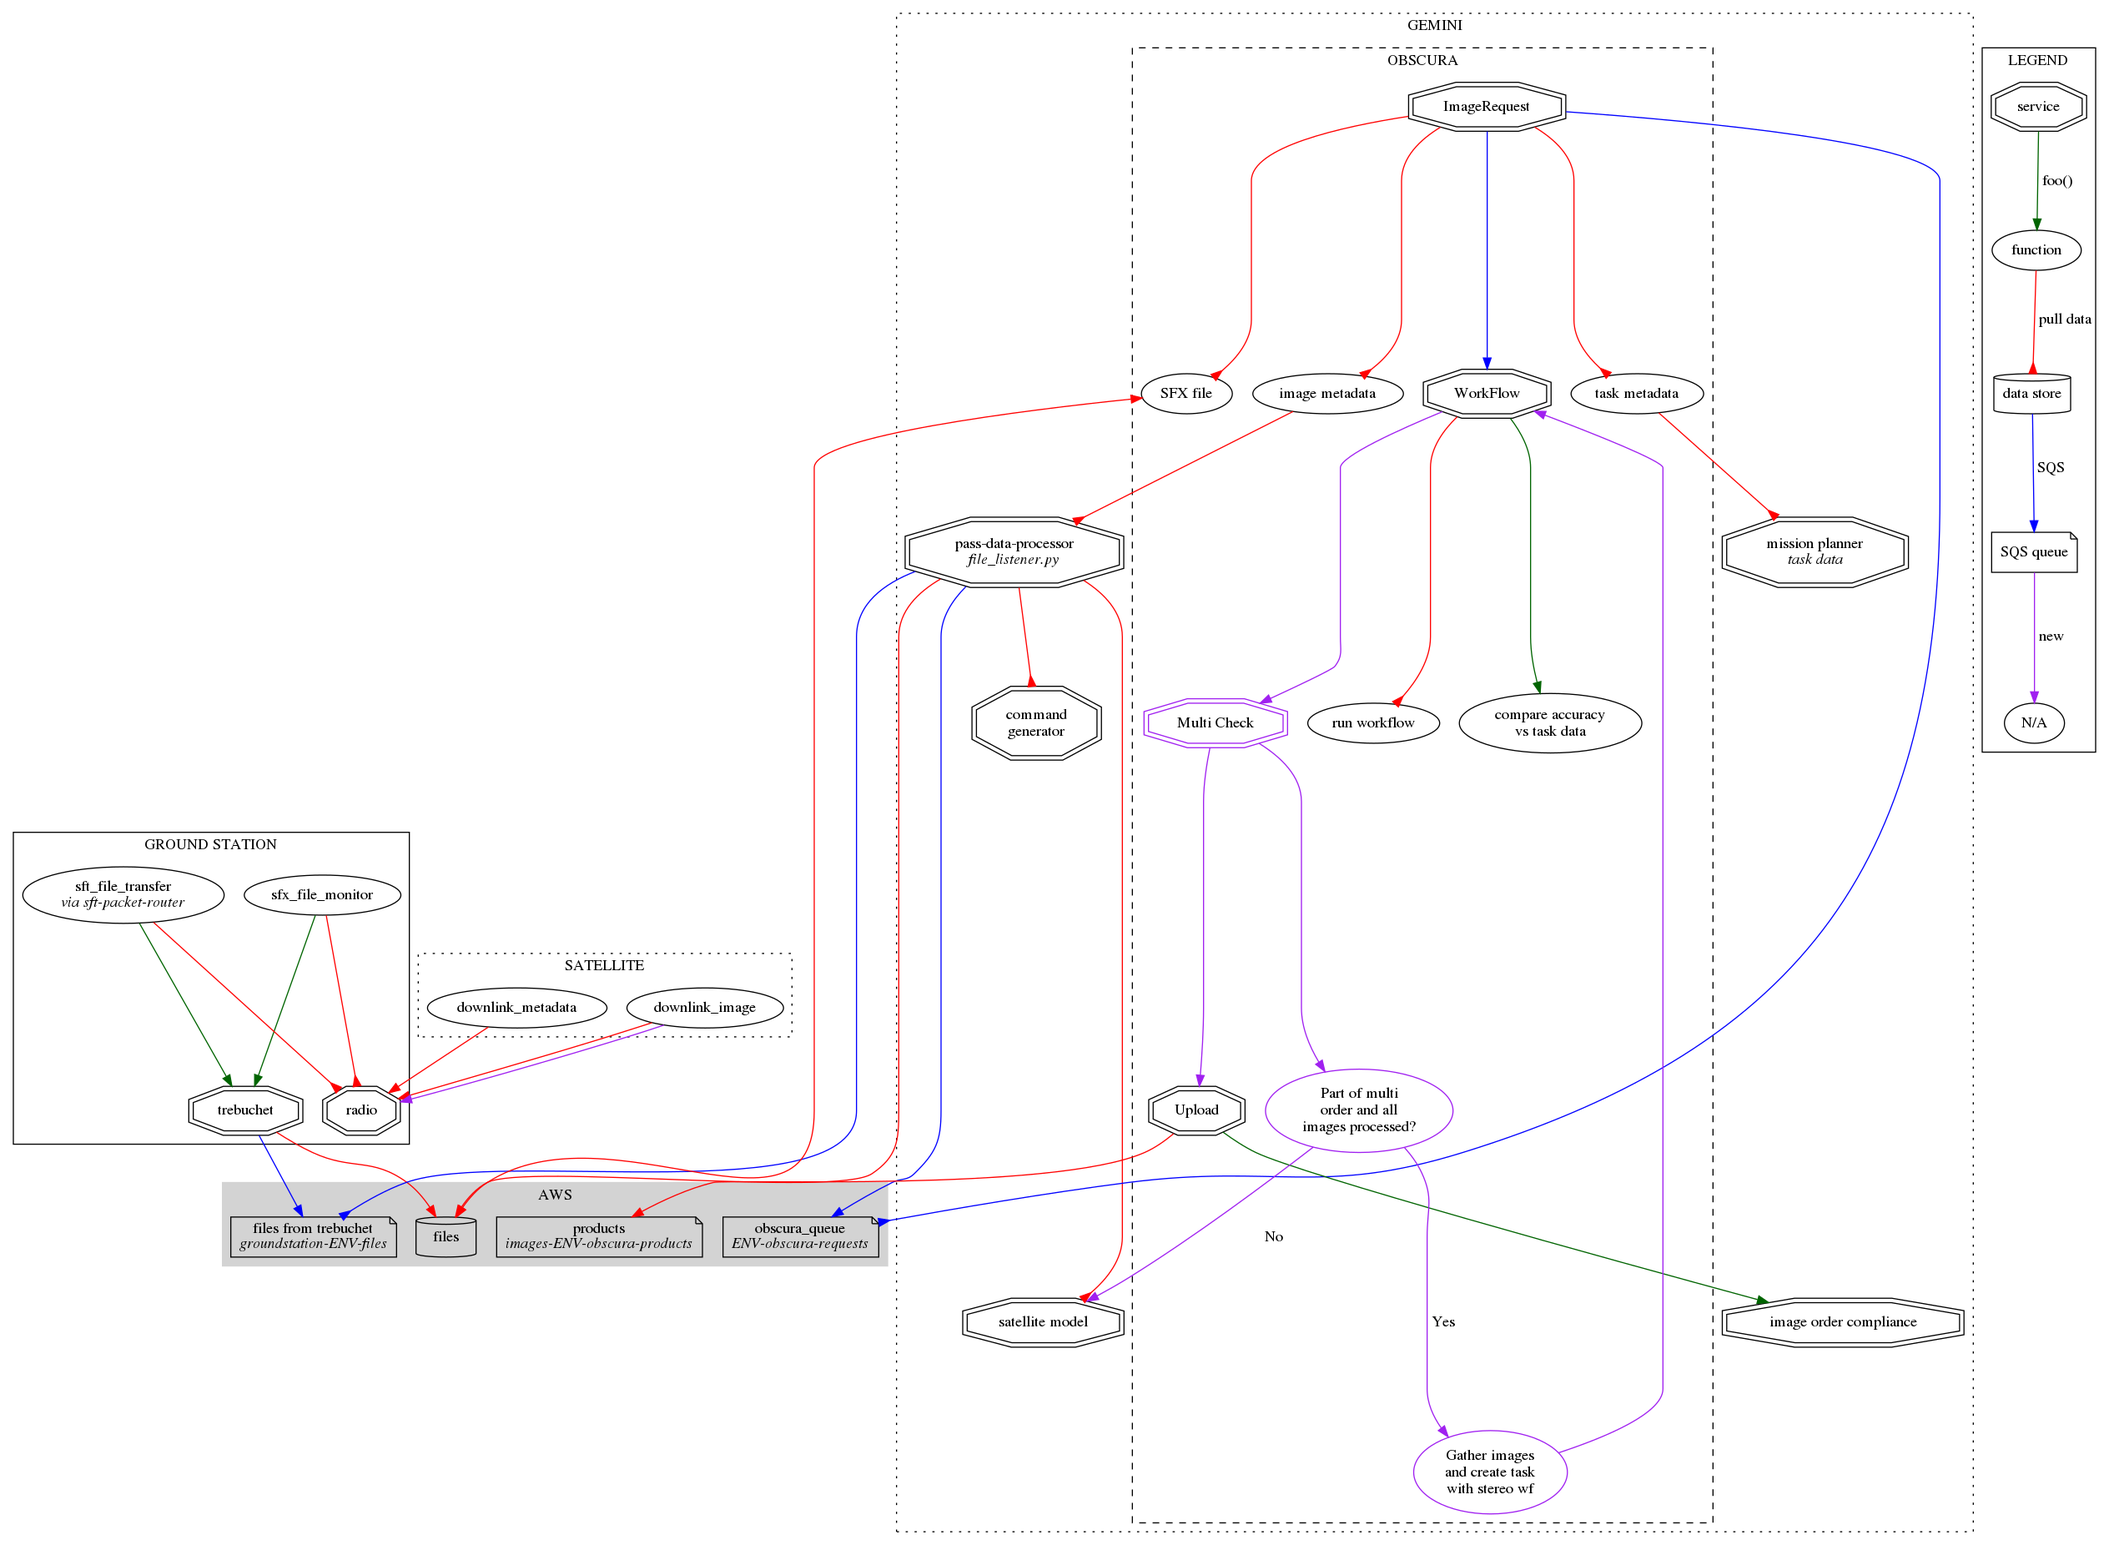
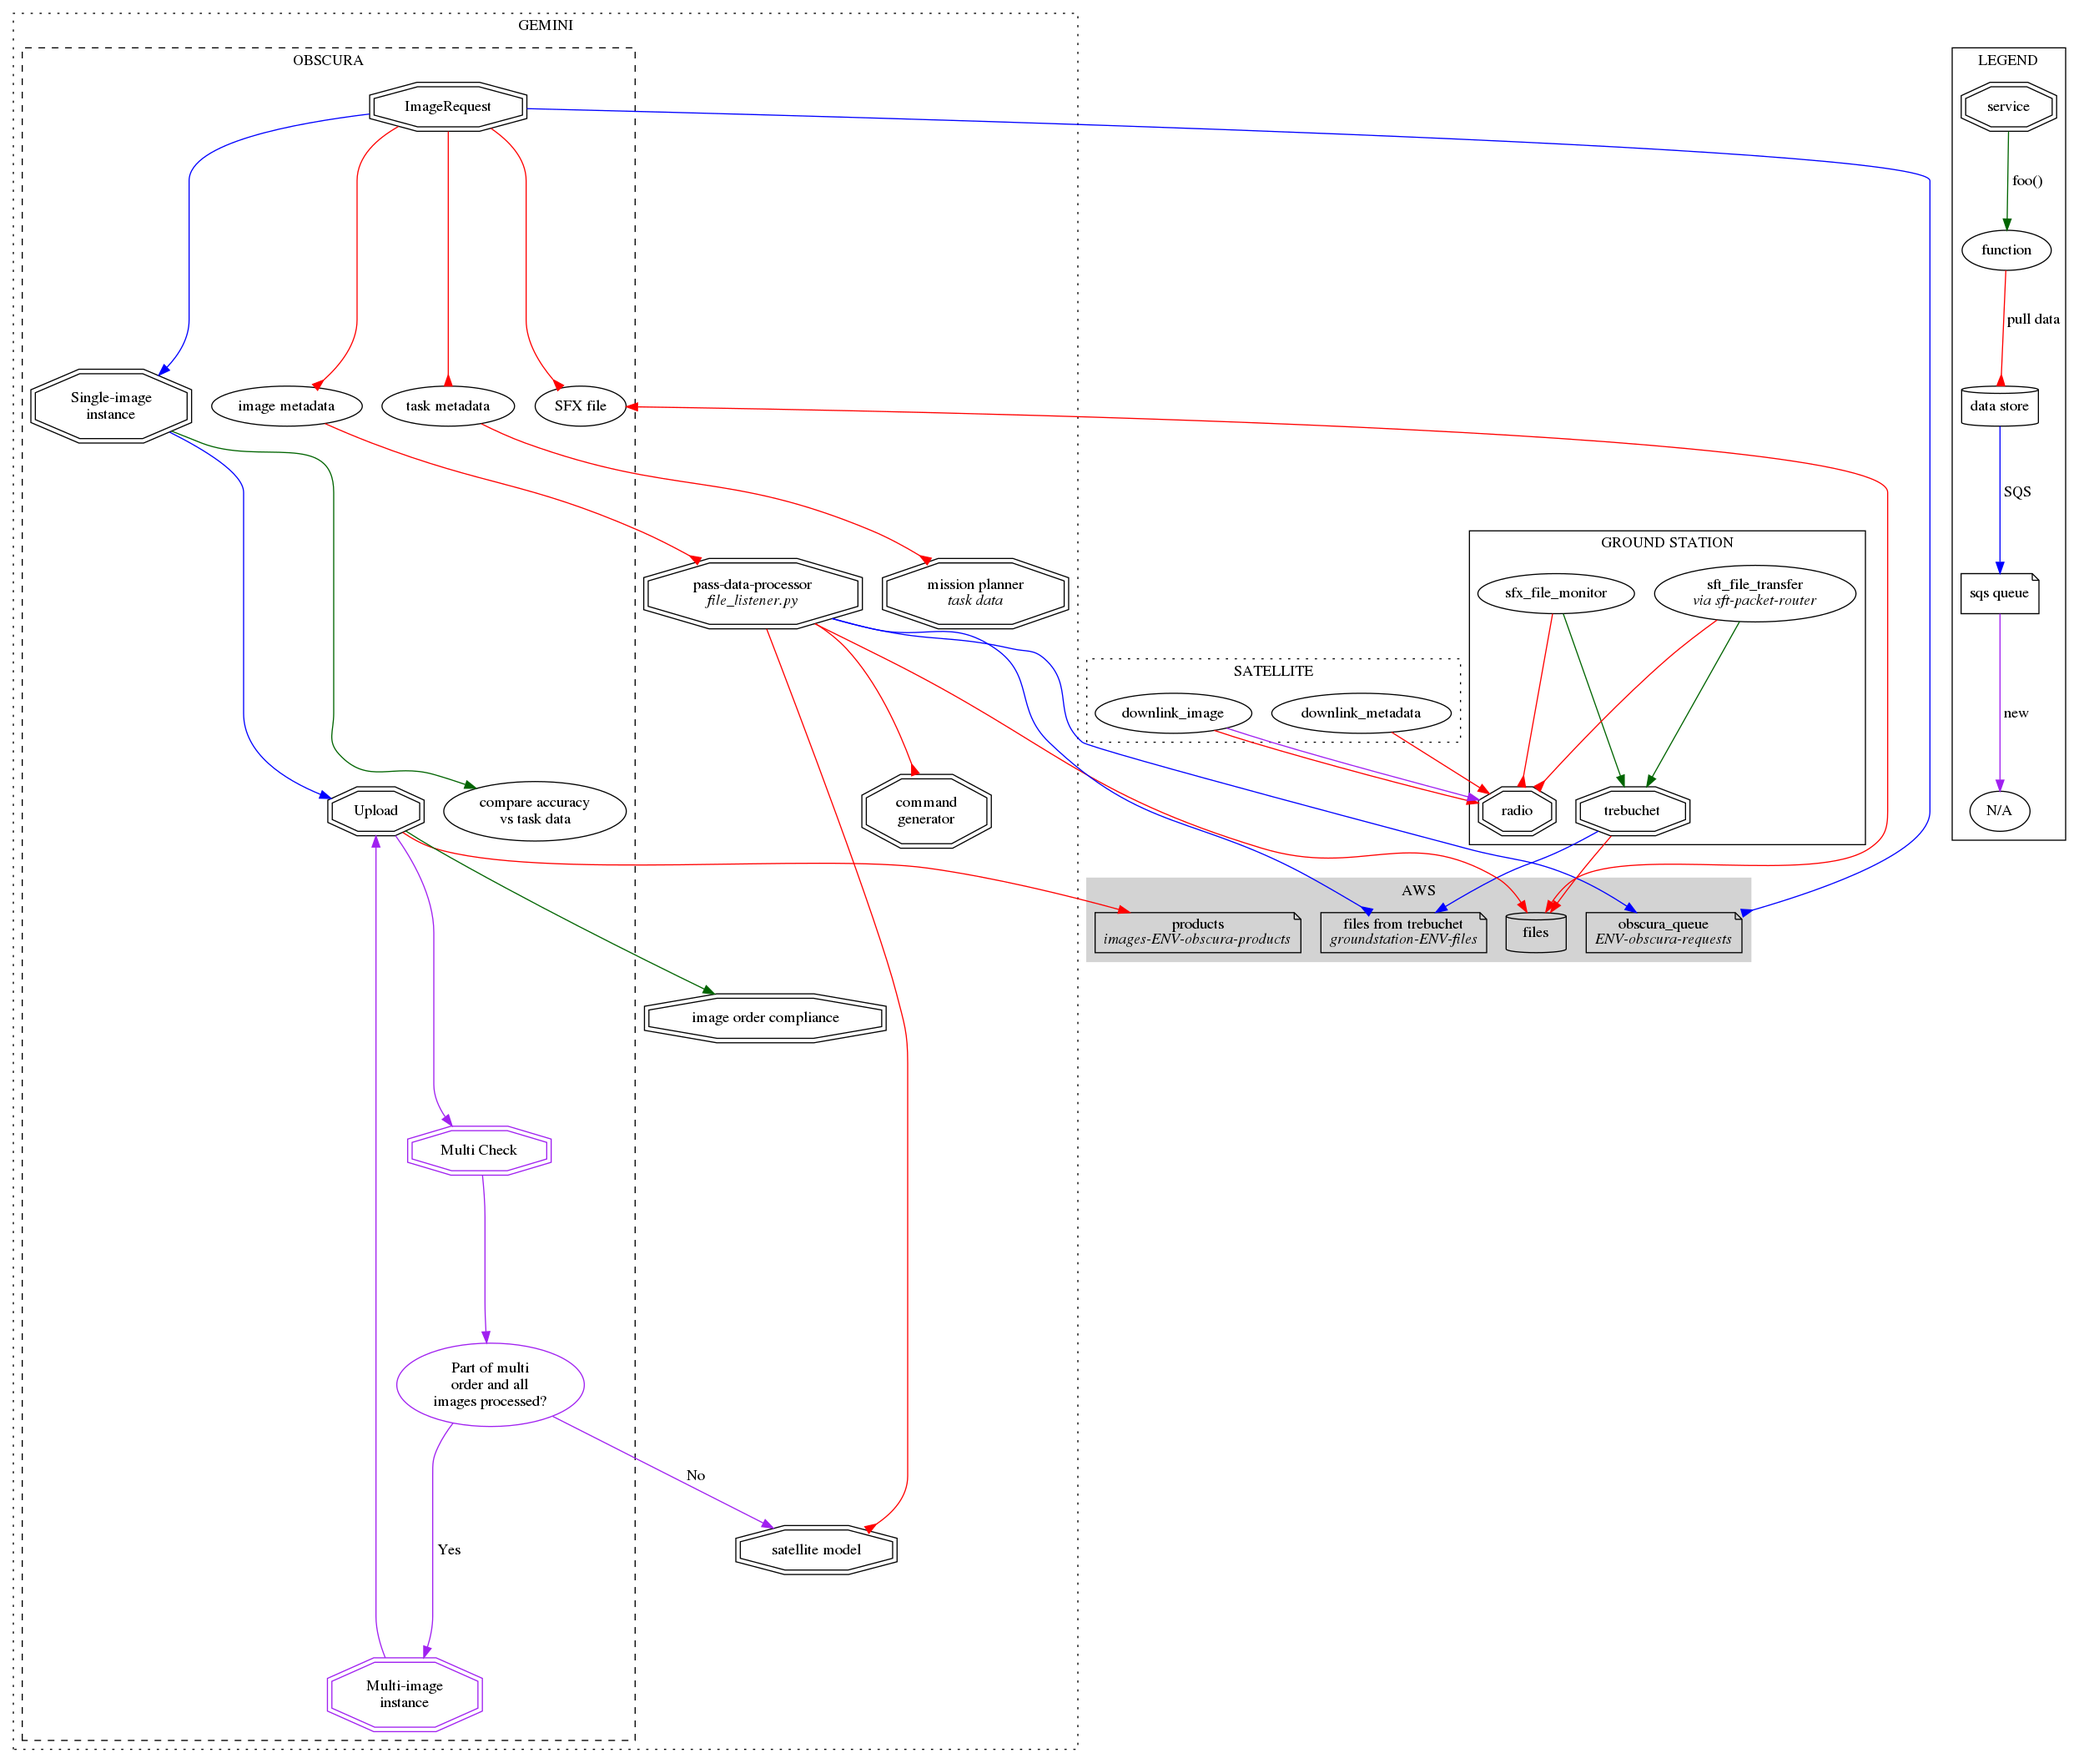
starting to combine graphs

diff --git a/Python/misc_blacksky/multi_image_high_level_graph.py b/Python/misc_blacksky/multi_image_high_level_graph.py
@@ -1,123 +1,136 @@
 import graphviz
 
-sqs_color = 'blue'
-fx_call = 'darkgreen'
-data_color = 'red'
-new_line = 'purple'
+PASS_OFF = 'blue'
+FX_CALL = 'darkgreen'
+DATA = 'red'
+NEW = 'purple'
+DEAD = 'black'
 
-service_shape = 'doubleoctagon'
-process = 'oval'
-data_store = 'cylinder'
-queue = 'note'
+SERVICE = 'doubleoctagon'
+PROCESS = 'oval'
+DATA_STORE = 'cylinder'
+SQS_QUEUE = 'note'
 
-G = graphviz.Digraph(format='png', filename='multi_overview.dg')
+CURRENT = False
+MULTI = True
+RGT = False
+
+graph = graphviz.Digraph(format='png', filename='obscura')
+
+
+def add_satellite_nodes(subgraph):
+    subgraph.node('image', label='downlink_image', shape=PROCESS)
+    subgraph.node('script', label='script', shape=DATA_STORE)
+
+    graph.edge('image', 'xband_radio', color=DATA)
+    graph.edge('image', 'xband_radio', color=NEW)
+    graph.edge('metadata', 'xband_radio', color=DATA)
+    
+    if MULTI:
+        subgraph.node('metadata', label='downlink_metadata', shape=PROCESS)
+    elif RGT:
+        subgraph.node('metadata', label='SFT (file)', shape=PROCESS, color=NEW)
+
 
 # SATELLITE
-with G.subgraph(name='clustersat') as c:
-    c.attr(label='SATELLITE', style='dotted')
-    c.node('image', label='downlink_image', shape=process)
-    c.node('metadata', label='downlink_metadata', shape=process)
+with graph.subgraph(name='cluster_sat') as cluster_sat:
+    cluster_sat.attr(label='SATELLITE', style='dotted')
 
-G.edge('image', 'xband_radio', color=data_color)
-G.edge('image', 'xband_radio', color=new_line)
-G.edge('metadata', 'xband_radio', color=data_color)
+
+def add_groundstation_nodes(subgraph):
+    pass
 
 
 # GROUNDSTATION
-with G.subgraph(name='clustergroundstation') as c:
+with graph.subgraph(name='clustergroundstation') as c:
     c.attr(label='GROUND STATION')
-    c.node('xband_radio', label='radio', shape=service_shape)
-    c.node('rlm', label='sfx_file_monitor', shape=process)
-    c.node('sft_file', label='<sft_file_transfer<BR/><I>via sft-packet-router</I>>', shape=process)
-    c.node('trebuchet', shape=service_shape)
+    c.node('xband_radio', label='radio', shape=SERVICE)
+    c.node('rlm', label='sfx_file_monitor', shape=PROCESS)
+    c.node('sft_file', label='<sft_file_transfer<BR/><I>via sft-packet-router</I>>', shape=PROCESS)
+    c.node('trebuchet', shape=SERVICE)
 
-G.edge('rlm', 'xband_radio', dir='forward', arrowhead='inv', color=data_color)
-G.edge('sft_file', 'xband_radio', dir='forward', arrowhead='inv', color=data_color)
-G.edge('rlm', 'trebuchet', color=fx_call)
-G.edge('sft_file', 'trebuchet', color=fx_call)
-G.edge('trebuchet', 'files_s3', color=data_color)
-G.edge('trebuchet', 'env_files', color=sqs_color)
-G.edge('pdp', 'env_files', dir='forward', arrowhead='inv', color=sqs_color)
+graph.edge('rlm', 'xband_radio', dir='forward', arrowhead='inv', color=DATA)
+graph.edge('sft_file', 'xband_radio', dir='forward', arrowhead='inv', color=DATA)
+graph.edge('rlm', 'trebuchet', color=FX_CALL)
+graph.edge('sft_file', 'trebuchet', color=FX_CALL)
+graph.edge('trebuchet', 'files_s3', color=DATA)
+graph.edge('trebuchet', 'env_files', color=PASS_OFF)
+graph.edge('pdp', 'env_files', dir='forward', arrowhead='inv', color=PASS_OFF)
 
 
 # AWS
-with G.subgraph(name='clusteraws') as c:
+with graph.subgraph(name='clusteraws') as c:
     c.attr(label='AWS', style='filled', color='lightgrey')
     # c.node_attr.update(style='filled', color='white')
-    c.node('files_s3', label='files', shape=data_store)
+    c.node('files_s3', label='files', shape=DATA_STORE)
 
-    c.node('obscura_queue', label='<obscura_queue<BR/><I>ENV-obscura-requests</I>>', shape=queue)
-    c.node('env_files', label='<files from trebuchet<BR/><I>groundstation-ENV-files</I>>', shape=queue)
-    c.node('final_product', label='<products<BR/><I>images-ENV-obscura-products</I>>', shape=queue)
+    c.node('obscura_queue', label='<obscura_queue<BR/><I>ENV-obscura-requests</I>>', shape=SQS_QUEUE)
+    c.node('env_files', label='<files from trebuchet<BR/><I>groundstation-ENV-files</I>>', shape=SQS_QUEUE)
+    c.node('final_product', label='<products<BR/><I>images-ENV-obscura-products</I>>', shape=SQS_QUEUE)
 
 
 # GEMINI
-with G.subgraph(name='clustergemini') as gem:
+with graph.subgraph(name='clustergemini') as gem:
     gem.attr(label='GEMINI', style='dotted')
-    gem.node('pdp', label='<pass-data-processor<BR/><I>file_listener.py</I>>', shape=service_shape)
-    gem.node('satmodel', label='satellite model', shape=service_shape)
-    gem.node('compliance', label='image order compliance', shape=service_shape)
-    gem.node('planner', label='<mission planner<BR/><I>task data</I>>', shape=service_shape)
-    gem.node('cmd_gen', label='<command<BR/>generator>', shape=service_shape)
+    gem.node('pdp', label='<pass-data-processor<BR/><I>file_listener.py</I>>', shape=SERVICE)
+    gem.node('satmodel', label='satellite model', shape=SERVICE)
+    gem.node('compliance', label='image order compliance', shape=SERVICE)
+    gem.node('planner', label='<mission planner<BR/><I>task data</I>>', shape=SERVICE)
+    gem.node('cmd_gen', label='<command<BR/>generator>', shape=SERVICE)
 
     # OBSCURA
     with gem.subgraph(name='clusterobscura') as c:
         c.attr(label='OBSCURA', style='dashed')
-        c.node('img_req', label='ImageRequest', shape=service_shape)
-        c.node('workflow', label='WorkFlow', shape=service_shape)
-        c.node('multi', label='Multi Check', shape=service_shape, color=new_line)
-        c.node('upload', label='Upload', shape=service_shape)
-        c.node('get_sfx', label='SFX file', shape=process)
-        c.node('get_metadata', label='image metadata', shape=process)
-        c.node('get_task', label='task metadata', shape=process)
-        c.node('run_wf', label='run workflow', shape=process)
-        c.node('examine_task', label='<compare accuracy<BR/>vs task data>', shape=process)
-        c.node('post_process_check', label='<Part of multi<BR/>order and all<BR/>images processed?>', shape=process, color=new_line)
-        c.node('gather_multi_images', label='<Gather images<BR/>and create task<BR/>with stereo wf>', shape=process, color=new_line)
+        c.node('img_req', label='ImageRequest', shape=SERVICE)
+        c.node('single_instance', label='<Single-image<BR/>instance>', shape=SERVICE)
+        c.node('multi_instance', label='<Multi-image<BR/>instance>', shape=SERVICE, color=NEW)
+        c.node('multi', label='Multi Check', shape=SERVICE, color=NEW)
+        c.node('upload', label='Upload', shape=SERVICE)
+        c.node('get_sfx', label='SFX file', shape=PROCESS)
+        c.node('get_metadata', label='image metadata', shape=PROCESS)
+        c.node('get_task', label='task metadata', shape=PROCESS)
+        c.node('examine_task', label='<compare accuracy<BR/>vs task data>', shape=PROCESS)
+        c.node('post_process_check', label='<Part of multi<BR/>order and all<BR/>images processed?>', shape=PROCESS, color=NEW)
 
-G.edge('pdp', 'satmodel', arrowhead='inv', dir='forward', color=data_color)
-G.edge('pdp', 'cmd_gen', arrowhead='inv', dir='forward', color=data_color)
-G.edge('pdp', 'files_s3', color=data_color)  # decrypted image_metadata files
-G.edge('pdp', 'obscura_queue', color=sqs_color)
+graph.edge('pdp', 'satmodel', arrowhead='inv', dir='forward', color=DATA)
+graph.edge('pdp', 'cmd_gen', arrowhead='inv', dir='forward', color=DATA)
+graph.edge('pdp', 'files_s3', color=DATA)  # decrypted image_metadata files
+graph.edge('pdp', 'obscura_queue', color=PASS_OFF)
 
-G.edge('img_req', 'obscura_queue', arrowhead='inv', dir='forward', color=sqs_color)
-G.edge('img_req', 'get_sfx', arrowhead='inv', dir='forward', color=data_color)
-G.edge('img_req', 'get_task', arrowhead='inv', dir='forward', color=data_color)
-G.edge('get_sfx', 'files_s3', dir='both', color=data_color)
-G.edge('img_req', 'get_metadata', arrowhead='inv', dir='forward', color=data_color)
-G.edge('get_metadata', 'pdp', arrowhead='inv', dir='forward', color=data_color)
-G.edge('get_task', 'planner', arrowhead='inv', dir='forward', color=data_color)
+graph.edge('img_req', 'obscura_queue', arrowhead='inv', dir='forward', color=PASS_OFF)
+graph.edge('img_req', 'get_sfx', arrowhead='inv', dir='forward', color=DATA)
+graph.edge('img_req', 'get_task', arrowhead='inv', dir='forward', color=DATA)
+graph.edge('get_sfx', 'files_s3', dir='both', color=DATA)
+graph.edge('img_req', 'get_metadata', arrowhead='inv', dir='forward', color=DATA)
+graph.edge('get_metadata', 'pdp', arrowhead='inv', dir='forward', color=DATA)
+graph.edge('get_task', 'planner', arrowhead='inv', dir='forward', color=DATA)
 
-G.edge('img_req', 'workflow', color=sqs_color)
-G.edge('workflow', 'run_wf', arrowhead='inv', dir='forward', color=data_color)
-G.edge('workflow', 'examine_task', color=fx_call)
+graph.edge('img_req', 'single_instance', color=PASS_OFF)
+graph.edge('single_instance', 'examine_task', color=FX_CALL)
 
-G.edge('workflow', 'multi', color=new_line)
-G.edge('multi', 'upload', color=new_line)
-G.edge('upload', 'final_product', color=data_color)
-G.edge('multi', 'post_process_check', color=new_line)
-G.edge('post_process_check', 'satmodel', label='No', color=new_line)
-G.edge('post_process_check', 'gather_multi_images', label=' Yes', color=new_line)
-G.edge('gather_multi_images', 'workflow',color=new_line)
-G.edge('upload', 'compliance', color=fx_call)
+graph.edge('single_instance', 'upload', color=PASS_OFF)
+graph.edge('multi_instance', 'upload', color=NEW)
+graph.edge('upload', 'multi', color=NEW)
+graph.edge('upload', 'final_product', color=DATA)
+graph.edge('multi', 'post_process_check', color=NEW)
+graph.edge('post_process_check', 'satmodel', label='No', color=NEW)
+graph.edge('post_process_check', 'multi_instance', label=' Yes', color=NEW)
+graph.edge('upload', 'compliance', color=FX_CALL)
 
 
-with G.subgraph(name='clusterlegend') as legend:
+with graph.subgraph(name='cluster_legend') as legend:
     legend.attr(label='LEGEND')
-    legend.node('a', label='service', shape=service_shape)
-    legend.node('b', label='function', shape=process)
-    legend.node('c', label='data store', shape=data_store)
-    legend.node('d', label='SQS queue', shape=queue)
-    legend.node('e', label='N/A', shape=process)
+    legend.node('a', label='service', shape=SERVICE)
+    legend.node('b', label='function', shape=PROCESS)
+    legend.node('c', label='data store', shape=DATA_STORE)
+    legend.node('d', label='sqs queue', shape=SQS_QUEUE)
+    legend.node('e', label='N/A', shape=PROCESS)
 
-    legend.edge('a', 'b', label=' foo()', color=fx_call)
-    legend.edge('b', 'c', label=' pull data', arrowhead='inv', color=data_color)
-    legend.edge('c', 'd', label=' SQS', color=sqs_color)
-    legend.edge('d', 'e', label=' new', color=new_line)
+    legend.edge('a', 'b', label=' foo()', color=FX_CALL)
+    legend.edge('b', 'c', label=' pull data', arrowhead='inv', color=DATA)
+    legend.edge('c', 'd', label=' SQS', color=PASS_OFF)
+    legend.edge('d', 'e', label=' new', color=NEW)
 
-# G.attr(engine='neato')
-# G.attr(layout='fdp')
-# G.attr(splines='ortho')
-G.attr(overlap='scale')
-G.attr(overlap_shrink='true')
-G.render()
+graph.attr(overlap='scale')
+graph.attr(overlap_shrink='true')
+graph.render()

diff --git a/Python/misc_blacksky/rgt_high_level_graph.py b/Python/misc_blacksky/rgt_high_level_graph.py
@@ -1,6 +1,7 @@
 import graphviz
 
-sqs_color = 'black'
+# DEFINING SOME CONSTANTS
+PASS_OFF = 'black'
 fx_call = 'black'
 data_color = 'black'
 new_line = 'blue'
@@ -54,7 +55,7 @@ with G.subgraph(name='clustergroundstation') as c:
         G.edge('get_sfx', 'local_storage', arrowhead='inv', color=new_line)
         G.edge('get_task', 'local_storage', arrowhead='inv', color=new_line)
         G.edge('get_metadata', 'local_storage', arrowhead='inv', color=new_line)
-        G.edge('img_req', 'workflow', color=sqs_color)
+        G.edge('img_req', 'workflow', color=PASS_OFF)
         G.edge('workflow', 'run_wf', arrowhead='inv', color=data_color)
         G.edge('workflow', 'examine_task', color=fx_call)
         G.edge('workflow', 'upload', color=dead_line)
@@ -80,7 +81,7 @@ with G.subgraph(name='clusterlegend') as legend:
 
     legend.edge('a', 'b', label=' foo()', color=fx_call)
     legend.edge('b', 'c', label=' pull data', arrowhead='inv', color=data_color)
-    legend.edge('c', 'd', label=' SQS', color=sqs_color)
+    legend.edge('c', 'd', label=' SQS', color=PASS_OFF)
     legend.edge('d', 'e', label='<<BR/><BR/><BR/><BR/> new>', color=new_line)
     legend.edge('e', 'd', label='<--dead', color=dead_line)
 
